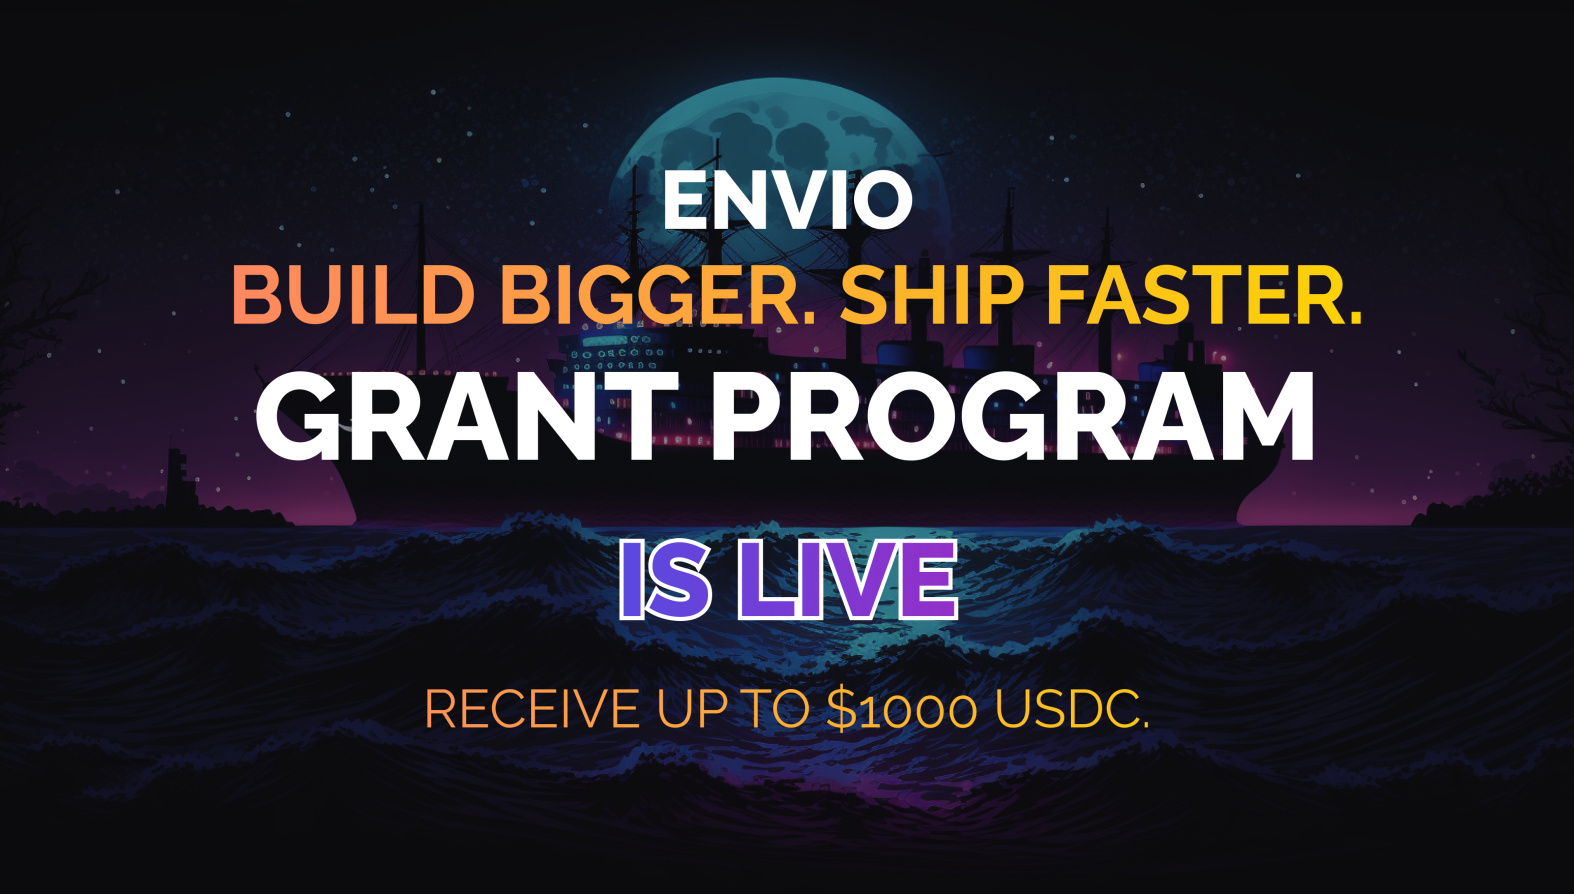
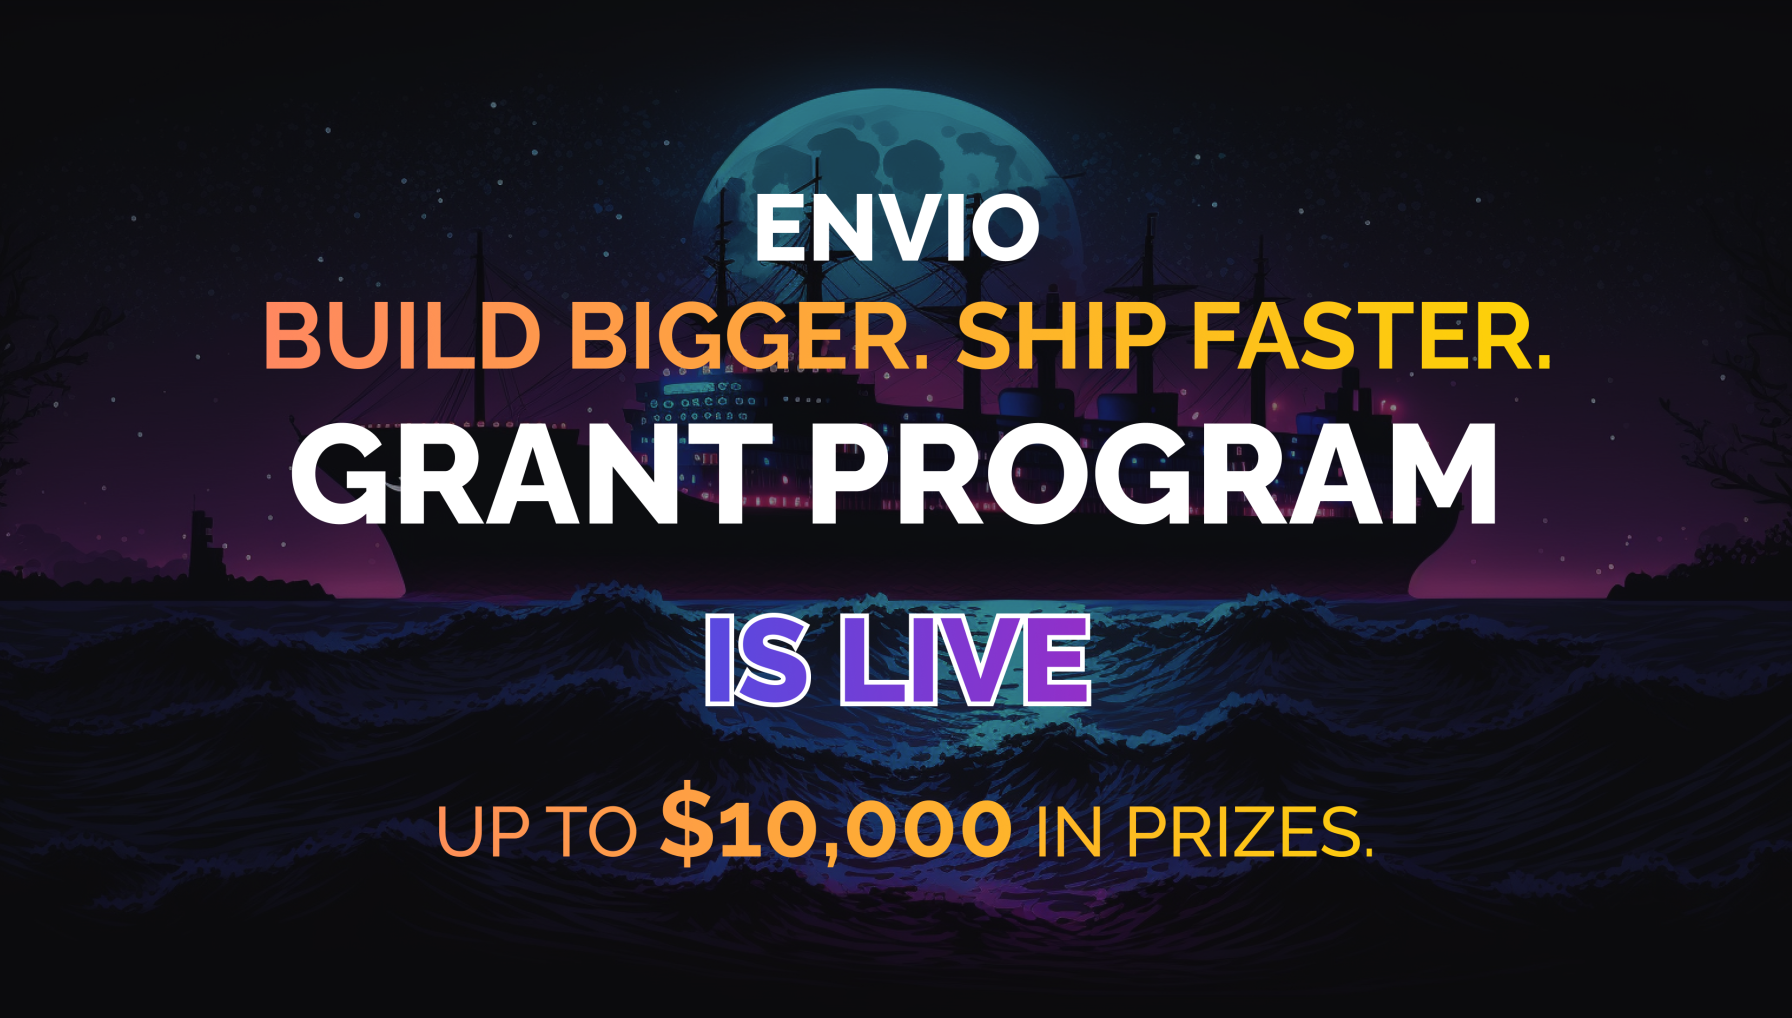
update blog article

Changed region(s): [[0.2179, 0.755, 0.7783, 0.8456], [0.467, 0.6342, 0.5915, 0.6946], [0.6226, 0.302, 0.6537, 0.3322]]

diff --git a/blog/2023-08-22-envio-grant-program-is-live.md b/blog/2023-08-22-envio-grant-program-is-live.md
@@ -8,41 +8,44 @@ slug: /envio-grant-program-now-live
 
 <!--truncate-->
 
-# **Envio launches “Build Bigger. Ship Faster” Grant Program.**
+# Envio launches “Build Bigger. Ship Faster” Grant Program.
 
-To commemorate the launch of our alpha release, we’re extending an invitation to all blockchain developers to apply to the **Envio "Build Bigger. Ship Faster" Grant Program**. The premise is simple yet incredibly rewarding: integrate a useful or interesting use case with Envio, share your invaluable feedback on the experience, and receive up to **$1000 USDC.**
+To commemorate the launch of our Alpha release, Envio invites all blockchain developers to apply to the **Envio "Build Bigger. Ship Faster" Grant Program**. The premise is simple yet incredibly rewarding: integrate a useful or interesting use case with Envio, share your invaluable feedback, and receive up to **$10,000 USDC**.
 
-As any seasoned developer knows, dealing with the copious amounts of disorganized, slow-to-retrieve data that blockchains generate can be a daunting task. This is where Envio comes in. With its developer-friendly indexing solution, Envio makes receiving, transforming, storing, and accessing on-chain data a breeze. The challenge is to demonstrate how you can build something brilliant using Envio’s customizable, developer-friendly indexing solution.
+As any seasoned blockchain developer knows, dealing with disorganized, slow-to-retrieve data stored on the  blockchain can be a daunting task. These difficulties pose significant obstacles for developers, diverting their attention towards infrastructure and maintenance tasks instead of focusing on the core objective of building brilliant dApps. 
+
+This is where Envio comes in. With its developer-friendly indexing solution, Envio makes receiving, transforming, loading on-chain data a breeze. Whether you're launching a multi-chain NFT marketplace, starting a DAO, diving into GameFi, or pioneering the next big P2E project, data indexers lik Envio serve as an essential building block tailored to your application’s unique data needs.
+
+The challenge is to demonstrate how you can build something brilliant using Envio’s customizable, developer-friendly indexing solution.
 
 ## Wondering what to build? 👀
 
-Here are a few example ideas you can ship using Envio:
+Here are a few example use cases you can ship using Envio:
 
-- A simple decentralized application (DApp) powered by Envio
-- A useful dashboard (e.g. multi-chain staking dashboard, aggregating protocol fees, etc.)
-- An Indexer template for popular OpenZeppelin Standards other than ERC20, ERC721, ERC1155 (e.g. Governance contracts)
-- Upgrade or migrate an existing use case subgraph (e.g. GMX v2 subgraph, Uniswap V3)
-- A template with data handling logic for easily aggregating/calculating SUM/ AVG / MIN / MAX values
+- A simple decentralized application (DApp)
+- A useful dashboard (e.g. DeFi staking opportunity dashboard, aggregating protocol fees, etc).
+- Upgrade or migrate an existing use case subgraph to battle-t4est Envio's capabilities (e.g. GMX v2, Uniswap V3 subgraph).
+- An indexer template for popular OpenZeppelin Standards other than ERC20, ERC721, ERC1155 (e.g. Governance contracts).
+- An indexer template with data handling logic for easily aggregating/calculating SUM / AVG / MIN / MAX values for DApps.
 
 ## How do I get involved?
 
-- Apply for the Envio “Build Bigger. Ship Faster" program by submitting a project proposal in Github by following the steps below:
+- Apply for the Envio “Build Bigger. Ship Faster" grant program by completing the [form](https://forms.gle/8rMndoELXQY4QYBu9), or submitting your proposal in the Github repository:
     - Fork the [envio-grant-program repository](https://github.com/Float-Capital/envio-grant-program/tree/main)
     - Create a new file in the **[project proposal folder](https://github.com/Float-Capital/envio-grant-program/edit/main/project%20proposals/)**
     - Outline your proposal using the [template](https://github.com/Float-Capital/envio-grant-program/blob/main/project%20proposals/proposal%20template) provided as guidance
     - Create a Pull Request (PR) to merge your project proposal into the repository
-- Alternatively, you can use the [form](https://forms.gle/8rMndoELXQY4QYBu9) to submit your project proposal.
-- Applications are reviewed on a case-by-case basis. The more creative, complex, or impactful the project idea, the higher the grant amount will be.
-- Please allow for up to 2 working days (48 hours) for your project proposal to be reviewed.
+- The more creative, complex, or impactful the project idea, the higher the grant amount will be.
+- Applications are reviewed on a case-by-case basis. Please allow for up to 2 working days (48 hours) for your project proposal to be reviewed and for us to get into touch with you 
 - Join our [Discord](https://discord.gg/mZHNWgNCAc) for updates and announcements on the “Build Bigger. Ship Faster” Grant Program, and introduce yourself to the team 👋
 
 ## Submissions
 
 - Successful applicants will be notified upon application acceptance and will agree with the Envio team on a suitable grant amount and timeline for project submission (incl. demo).
-- Please note, grantees submit their Envio projects to the **[project submission folder](https://github.com/Float-Capital/envio-grant-program/tree/main/project%20submissions)** in Github.
+- Please note, applicants submit their Envio projects to the **[project submission folder](https://github.com/Float-Capital/envio-grant-program/tree/main/project%20submissions)** in Github.
 - Upon project submission, please allow up to 3 working days (72 hours) decision period.
 - Prizes will only be distributed to participants who have completed their submission to the pre-set standards agreement with Envio.
-- Participants will have an opportunity to present their Envio project submission on a closing ceremony Twitter Spaces / Community Call (dates TBC). The recording will be uploaded on YouTube.
+- Participants will have an opportunity to present their Envio project submission on a closing ceremony Twitter Spaces / Community Call (dates TBC). The recording will be uploaded to our social platforms.
 
 Submissions will be ranked on the following:
 
